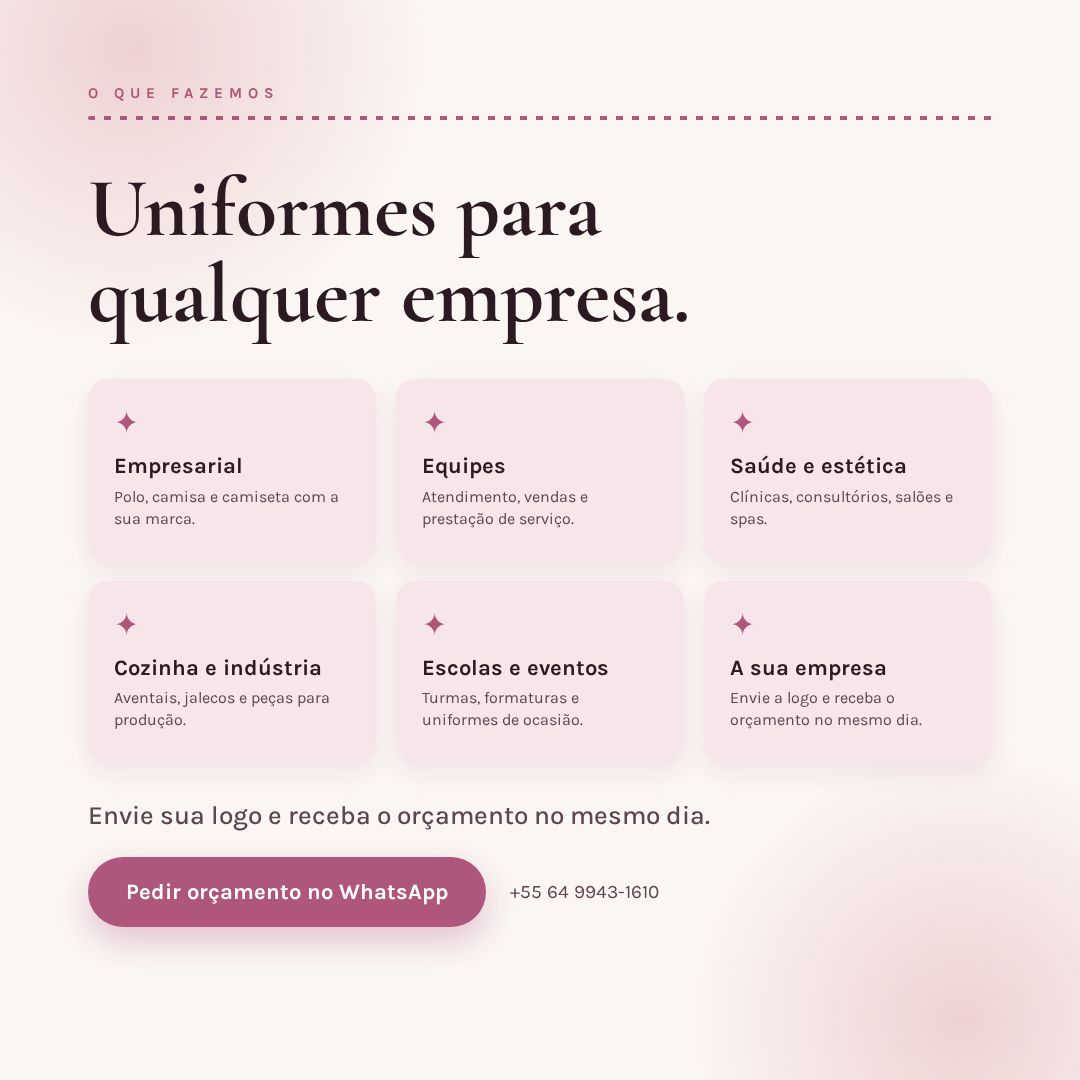
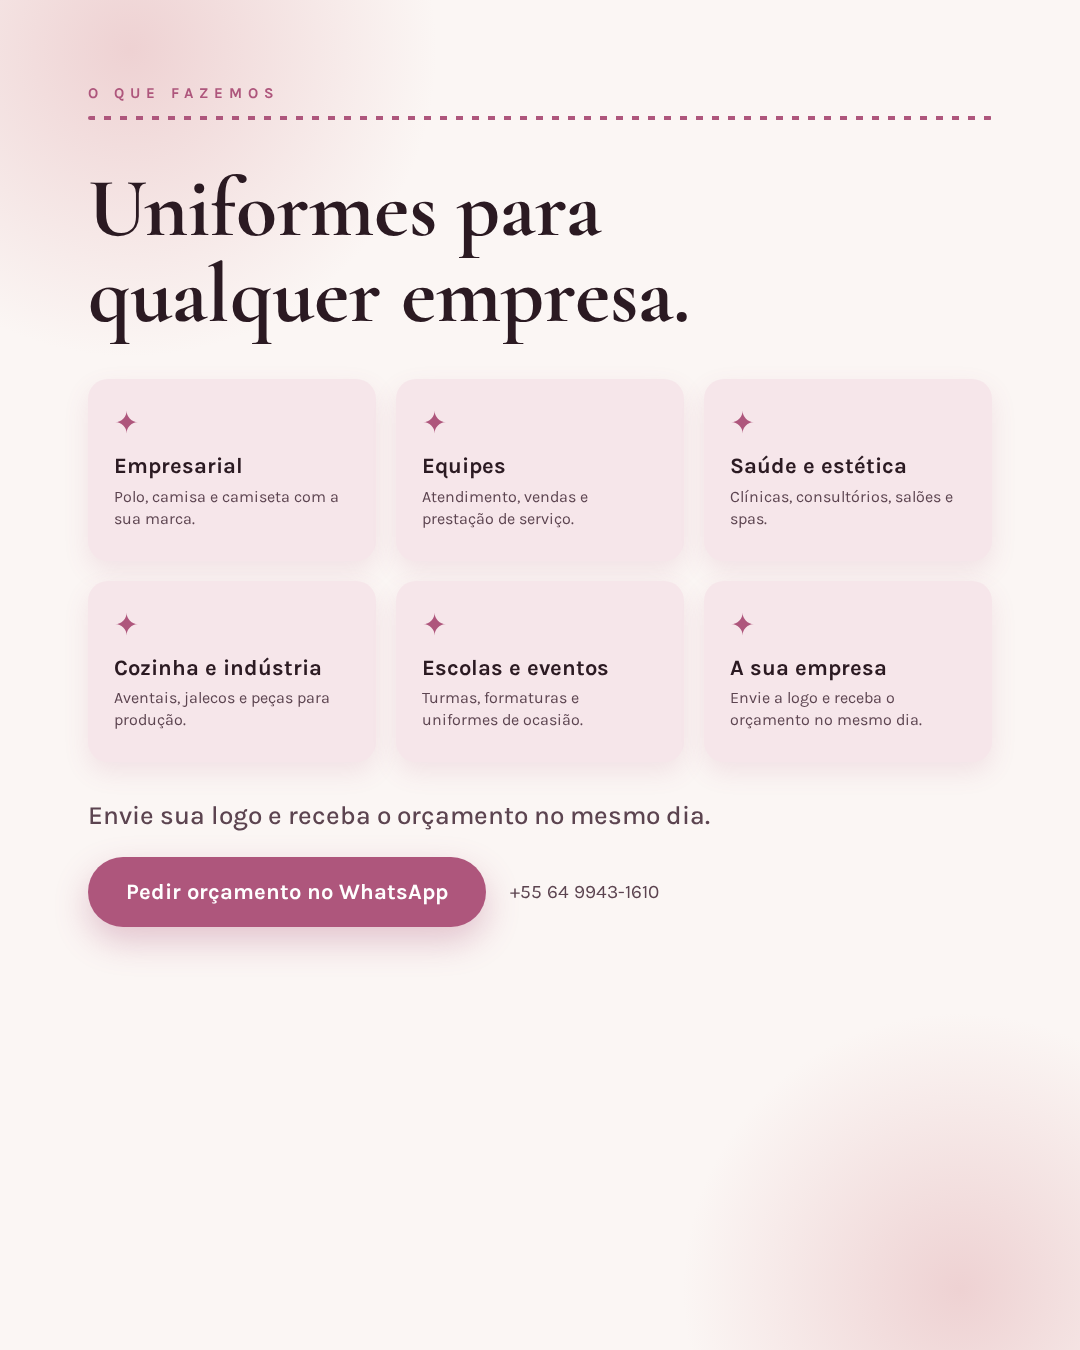
fix(instagram): corrige proporção dos posts para 4:5 (1080x1350) — feed sem corte nem borda

diff --git a/instagram/diario/saida/posto-2026-08-22.html b/instagram/diario/saida/posto-2026-08-22.html
@@ -4,7 +4,7 @@
 <style>
   @import url('https://fonts.googleapis.com/css2?family=Cormorant+Garamond:ital,wght@0,500;0,600;0,700;1,500&family=Karla:wght@400;500;700&display=swap');
   * { margin:0; padding:0; box-sizing:border-box; }
-  body { width:1080px; height:1080px; background:#FBF6F4; font-family:'Karla',sans-serif; color:#2B1A22; overflow:hidden; position:relative; }
+  body { width:1080px; height:1350px; background:#FBF6F4; font-family:'Karla',sans-serif; color:#2B1A22; overflow:hidden; position:relative; }
   .orb { position:absolute; border-radius:50%; z-index:0; background:radial-gradient(circle, rgb(225 173 177 / 0.5) 0%, transparent 70%); }
   .orb-a { width:720px; height:720px; top:-300px; right:-220px; }
   .orb-b { width:560px; height:560px; bottom:-240px; left:-180px; }
@@ -21,9 +21,9 @@
 <body>
   <div class="orb orb-a"></div><div class="orb orb-b"></div>
   <div class="frame">
-    <div><div class="label">VOCÊ SABIA</div><div class="stitch"></div></div>
+    <div><div class="label">PERGUNTA</div><div class="stitch"></div></div>
     <div class="middle">
-      <div class="headline">Atendemos qualquer tipo de empresa</div>
+      <div class="headline">Qual cor representa a sua empresa?</div>
       <div class="brand">DIAS DE MODA · UNIFORMES</div>
     </div>
     <div class="cta-row">

diff --git a/instagram/posts/11-orcamento-1-dia.html b/instagram/posts/11-orcamento-1-dia.html
@@ -6,7 +6,7 @@
   @import url('https://fonts.googleapis.com/css2?family=Cormorant+Garamond:ital,wght@0,500;0,600;0,700;1,500&family=Karla:wght@400;500;700&display=swap');
   :root { --rosa:#AE567C; --rosa-escuro:#8C3F63; --rosa-claro:#E1ADB1; --ameixa:#2B1A22; --ameixa-suave:#5C4450; --branco:#FBF6F4; --superficie:#F6E6EA; }
   * { margin:0; padding:0; box-sizing:border-box; }
-  body { width:1080px; height:1080px; background:var(--branco); font-family:'Karla','Helvetica Neue',sans-serif; color:var(--ameixa); overflow:hidden; position:relative; }
+  body { width:1080px; height:1350px; background:var(--branco); font-family:'Karla','Helvetica Neue',sans-serif; color:var(--ameixa); overflow:hidden; position:relative; }
   .orb { position:absolute; border-radius:50%; z-index:0; background:radial-gradient(circle, rgb(225 173 177 / 0.5) 0%, rgb(225 173 177 / 0) 70%); }
   .orb-a { width:720px; height:720px; top:-280px; right:-200px; }
   .orb-b { width:540px; height:540px; bottom:-220px; left:-160px; }

diff --git a/instagram/posts/13-da-logo-ao-uniforme.html b/instagram/posts/13-da-logo-ao-uniforme.html
@@ -6,7 +6,7 @@
   @import url('https://fonts.googleapis.com/css2?family=Cormorant+Garamond:ital,wght@0,500;0,600;0,700;1,500&family=Karla:wght@400;500;700&display=swap');
   :root { --rosa:#AE567C; --rosa-escuro:#8C3F63; --rosa-claro:#E1ADB1; --ameixa:#2B1A22; --ameixa-suave:#5C4450; --branco:#FBF6F4; --superficie:#F6E6EA; }
   * { margin:0; padding:0; box-sizing:border-box; }
-  body { width:1080px; height:1080px; background:var(--branco); font-family:'Karla','Helvetica Neue',sans-serif; color:var(--ameixa); overflow:hidden; position:relative; }
+  body { width:1080px; height:1350px; background:var(--branco); font-family:'Karla','Helvetica Neue',sans-serif; color:var(--ameixa); overflow:hidden; position:relative; }
   .orb { position:absolute; border-radius:50%; z-index:0; background:radial-gradient(circle, rgb(225 173 177 / 0.5) 0%, rgb(225 173 177 / 0) 70%); }
   .orb-a { width:700px; height:700px; top:-280px; right:-200px; }
   .orb-b { width:540px; height:540px; bottom:-220px; left:-160px; }

diff --git a/instagram/posts/14-pacote-equipe.html b/instagram/posts/14-pacote-equipe.html
@@ -6,7 +6,7 @@
   @import url('https://fonts.googleapis.com/css2?family=Cormorant+Garamond:ital,wght@0,500;0,600;0,700;1,500&family=Karla:wght@400;500;700&display=swap');
   :root { --rosa:#AE567C; --rosa-escuro:#8C3F63; --rosa-claro:#E1ADB1; --ameixa:#2B1A22; --ameixa-suave:#5C4450; --branco:#FBF6F4; --superficie:#F6E6EA; }
   * { margin:0; padding:0; box-sizing:border-box; }
-  body { width:1080px; height:1080px; background:var(--branco); font-family:'Karla','Helvetica Neue',sans-serif; color:var(--ameixa); overflow:hidden; position:relative; }
+  body { width:1080px; height:1350px; background:var(--branco); font-family:'Karla','Helvetica Neue',sans-serif; color:var(--ameixa); overflow:hidden; position:relative; }
   .orb { position:absolute; border-radius:50%; z-index:0; background:radial-gradient(circle, rgb(225 173 177 / 0.5) 0%, rgb(225 173 177 / 0) 70%); }
   .orb-a { width:700px; height:700px; top:-280px; right:-200px; }
   .orb-b { width:540px; height:540px; bottom:-220px; left:-160px; }

diff --git a/instagram/posts/15-duvidas-frequentes.html b/instagram/posts/15-duvidas-frequentes.html
@@ -6,7 +6,7 @@
   @import url('https://fonts.googleapis.com/css2?family=Cormorant+Garamond:ital,wght@0,500;0,600;0,700;1,500&family=Karla:wght@400;500;700&display=swap');
   :root { --rosa:#AE567C; --rosa-escuro:#8C3F63; --rosa-claro:#E1ADB1; --ameixa:#2B1A22; --ameixa-suave:#5C4450; --branco:#FBF6F4; --superficie:#F6E6EA; }
   * { margin:0; padding:0; box-sizing:border-box; }
-  body { width:1080px; height:1080px; background:var(--branco); font-family:'Karla','Helvetica Neue',sans-serif; color:var(--ameixa); overflow:hidden; position:relative; }
+  body { width:1080px; height:1350px; background:var(--branco); font-family:'Karla','Helvetica Neue',sans-serif; color:var(--ameixa); overflow:hidden; position:relative; }
   .orb { position:absolute; border-radius:50%; z-index:0; background:radial-gradient(circle, rgb(225 173 177 / 0.5) 0%, rgb(225 173 177 / 0) 70%); }
   .orb-a { width:700px; height:700px; top:-280px; right:-200px; }
   .orb-b { width:540px; height:540px; bottom:-220px; left:-160px; }

diff --git a/instagram/posts/16-comparacao.html b/instagram/posts/16-comparacao.html
@@ -6,7 +6,7 @@
   @import url('https://fonts.googleapis.com/css2?family=Cormorant+Garamond:ital,wght@0,500;0,600;0,700;1,500&family=Karla:wght@400;500;700&display=swap');
   :root { --rosa:#AE567C; --rosa-escuro:#8C3F63; --rosa-claro:#E1ADB1; --ameixa:#2B1A22; --ameixa-suave:#5C4450; --branco:#FBF6F4; --superficie:#F6E6EA; }
   * { margin:0; padding:0; box-sizing:border-box; }
-  body { width:1080px; height:1080px; background:var(--branco); font-family:'Karla','Helvetica Neue',sans-serif; color:var(--ameixa); overflow:hidden; position:relative; }
+  body { width:1080px; height:1350px; background:var(--branco); font-family:'Karla','Helvetica Neue',sans-serif; color:var(--ameixa); overflow:hidden; position:relative; }
   .orb { position:absolute; border-radius:50%; z-index:0; background:radial-gradient(circle, rgb(225 173 177 / 0.5) 0%, rgb(225 173 177 / 0) 70%); }
   .orb-a { width:700px; height:700px; top:-280px; right:-200px; }
   .orb-b { width:540px; height:540px; bottom:-220px; left:-160px; }

diff --git a/instagram/posts/19-amostra-aprovacao.html b/instagram/posts/19-amostra-aprovacao.html
@@ -6,7 +6,7 @@
   @import url('https://fonts.googleapis.com/css2?family=Cormorant+Garamond:ital,wght@0,500;0,600;0,700;1,500&family=Karla:wght@400;500;700&display=swap');
   :root { --rosa:#AE567C; --rosa-escuro:#8C3F63; --rosa-claro:#E1ADB1; --ameixa:#2B1A22; --ameixa-suave:#5C4450; --branco:#FBF6F4; --superficie:#F6E6EA; }
   * { margin:0; padding:0; box-sizing:border-box; }
-  body { width:1080px; height:1080px; background:var(--branco); font-family:'Karla','Helvetica Neue',sans-serif; color:var(--ameixa); overflow:hidden; position:relative; }
+  body { width:1080px; height:1350px; background:var(--branco); font-family:'Karla','Helvetica Neue',sans-serif; color:var(--ameixa); overflow:hidden; position:relative; }
   .orb { position:absolute; border-radius:50%; z-index:0; background:radial-gradient(circle, rgb(225 173 177 / 0.5) 0%, rgb(225 173 177 / 0) 70%); }
   .orb-a { width:700px; height:700px; top:-280px; right:-200px; }
   .orb-b { width:540px; height:540px; bottom:-220px; left:-160px; }

diff --git a/instagram/posts/12-por-que-uniformizar.html b/instagram/posts/12-por-que-uniformizar.html
@@ -6,7 +6,7 @@
   @import url('https://fonts.googleapis.com/css2?family=Cormorant+Garamond:ital,wght@0,500;0,600;0,700;1,500&family=Karla:wght@400;500;700&display=swap');
   :root { --rosa:#AE567C; --rosa-claro:#E1ADB1; --ameixa:#2B1A22; --ameixa-suave:#C9B8C0; --branco:#FBF6F4; }
   * { margin:0; padding:0; box-sizing:border-box; }
-  body { width:1080px; height:1080px; background:var(--ameixa); font-family:'Karla','Helvetica Neue',sans-serif; color:var(--branco); overflow:hidden; position:relative; }
+  body { width:1080px; height:1350px; background:var(--ameixa); font-family:'Karla','Helvetica Neue',sans-serif; color:var(--branco); overflow:hidden; position:relative; }
   .orb { position:absolute; border-radius:50%; z-index:0; background:radial-gradient(circle, rgb(174 86 124 / 0.34) 0%, rgb(174 86 124 / 0) 70%); }
   .orb-a { width:720px; height:720px; top:-280px; right:-200px; }
   .orb-b { width:560px; height:560px; bottom:-240px; left:-160px; }

diff --git a/instagram/posts/17-agenda-producao.html b/instagram/posts/17-agenda-producao.html
@@ -6,7 +6,7 @@
   @import url('https://fonts.googleapis.com/css2?family=Cormorant+Garamond:ital,wght@0,500;0,600;0,700;1,500&family=Karla:wght@400;500;700&display=swap');
   :root { --rosa:#AE567C; --rosa-claro:#E1ADB1; --ameixa:#2B1A22; --ameixa-suave:#C9B8C0; --branco:#FBF6F4; }
   * { margin:0; padding:0; box-sizing:border-box; }
-  body { width:1080px; height:1080px; background:var(--ameixa); font-family:'Karla','Helvetica Neue',sans-serif; color:var(--branco); overflow:hidden; position:relative; }
+  body { width:1080px; height:1350px; background:var(--ameixa); font-family:'Karla','Helvetica Neue',sans-serif; color:var(--branco); overflow:hidden; position:relative; }
   .orb { position:absolute; border-radius:50%; z-index:0; background:radial-gradient(circle, rgb(174 86 124 / 0.34) 0%, rgb(174 86 124 / 0) 70%); }
   .orb-a { width:720px; height:720px; top:-280px; right:-200px; }
   .orb-b { width:560px; height:560px; bottom:-240px; left:-160px; }

diff --git a/instagram/posts/18-depoimento-resultado.html b/instagram/posts/18-depoimento-resultado.html
@@ -6,7 +6,7 @@
   @import url('https://fonts.googleapis.com/css2?family=Cormorant+Garamond:ital,wght@0,500;0,600;0,700;1,500&family=Karla:wght@400;500;700&display=swap');
   :root { --rosa:#AE567C; --rosa-claro:#E1ADB1; --ameixa:#2B1A22; --ameixa-suave:#C9B8C0; --branco:#FBF6F4; }
   * { margin:0; padding:0; box-sizing:border-box; }
-  body { width:1080px; height:1080px; background:var(--ameixa); font-family:'Karla','Helvetica Neue',sans-serif; color:var(--branco); overflow:hidden; position:relative; }
+  body { width:1080px; height:1350px; background:var(--ameixa); font-family:'Karla','Helvetica Neue',sans-serif; color:var(--branco); overflow:hidden; position:relative; }
   .orb { position:absolute; border-radius:50%; z-index:0; background:radial-gradient(circle, rgb(174 86 124 / 0.34) 0%, rgb(174 86 124 / 0) 70%); }
   .orb-a { width:720px; height:720px; top:-280px; right:-200px; }
   .orb-b { width:560px; height:560px; bottom:-240px; left:-160px; }

diff --git a/instagram/posts/20-comece-agora.html b/instagram/posts/20-comece-agora.html
@@ -6,7 +6,7 @@
   @import url('https://fonts.googleapis.com/css2?family=Cormorant+Garamond:ital,wght@0,500;0,600;0,700;1,500&family=Karla:wght@400;500;700&display=swap');
   :root { --rosa:#AE567C; --rosa-claro:#E1ADB1; --ameixa:#2B1A22; --ameixa-suave:#C9B8C0; --branco:#FBF6F4; }
   * { margin:0; padding:0; box-sizing:border-box; }
-  body { width:1080px; height:1080px; background:var(--ameixa); font-family:'Karla','Helvetica Neue',sans-serif; color:var(--branco); overflow:hidden; position:relative; }
+  body { width:1080px; height:1350px; background:var(--ameixa); font-family:'Karla','Helvetica Neue',sans-serif; color:var(--branco); overflow:hidden; position:relative; }
   .orb { position:absolute; border-radius:50%; z-index:0; background:radial-gradient(circle, rgb(174 86 124 / 0.36) 0%, rgb(174 86 124 / 0) 70%); }
   .orb-a { width:760px; height:760px; top:-300px; right:-220px; }
   .orb-b { width:560px; height:560px; bottom:-240px; left:-160px; }

diff --git a/instagram/posts/05-uniformes-equipes.html b/instagram/posts/05-uniformes-equipes.html
@@ -10,7 +10,7 @@
     --ameixa: #2B1A22; --ameixa-suave: #5C4450; --branco: #FBF6F4; --superficie: #F6E6EA;
   }
   * { margin: 0; padding: 0; box-sizing: border-box; }
-  body { width: 1080px; height: 1080px; background: var(--branco);
+  body { width: 1080px; height: 1350px; background: var(--branco);
     font-family: 'Karla', 'Helvetica Neue', sans-serif; color: var(--ameixa);
     overflow: hidden; position: relative; }
   .orb { position: absolute; border-radius: 50%; z-index: 0;
